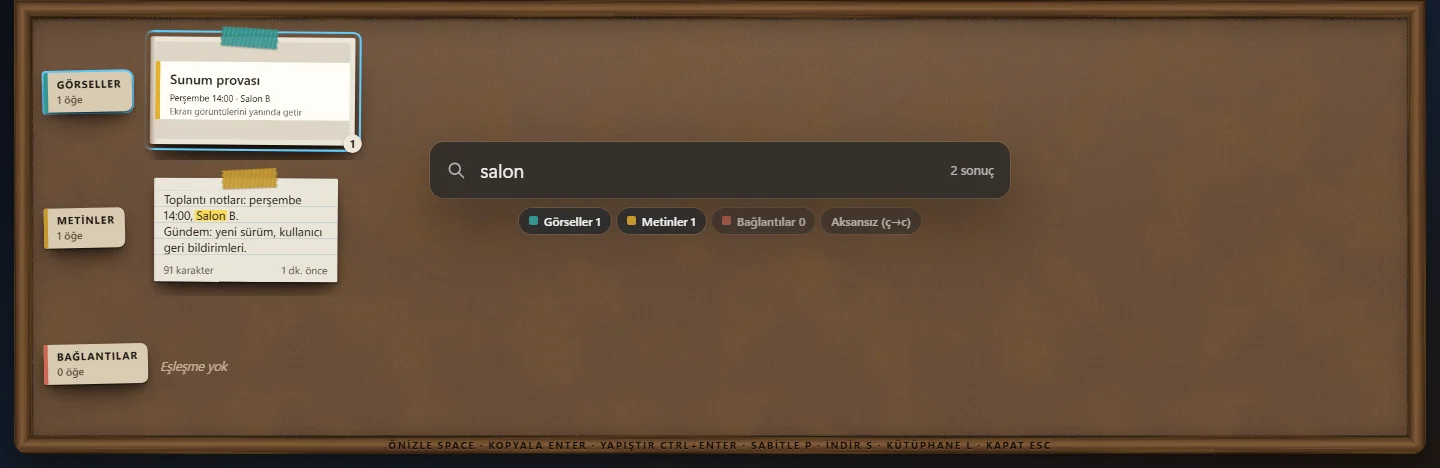
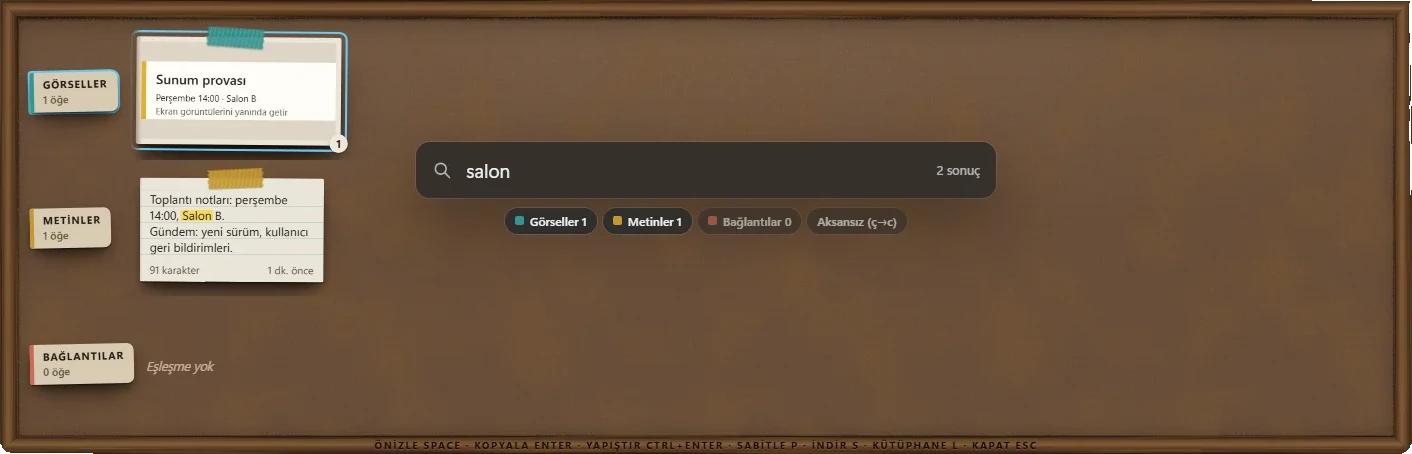
docs: crop the shelf pictures and use Turkish Windows' SmartScreen words
The four shelf pictures now end at the board's frame on every side,
with clear corners, so they suit any page. Turkish texts name the
SmartScreen dialog as Turkish Windows does: "Windows kişisel
bilgisayarınızı korudu", then "Ek bilgi" and "Yine de çalıştır".

Changed region(s): [[0.0, 0.0, 1.0, 1.0], [0.2805, 0.2775, 0.7167, 0.5242]]

diff --git a/site/index.html b/site/index.html
@@ -97,7 +97,7 @@
             <span data-l="en">All releases</span><span data-l="tr">Tüm sürümler</span></a>
           ·
           <a href="#smartscreen">
-            <span data-l="en">"Windows protected your PC"?</span><span data-l="tr">"Windows bilgisayarınızı korudu" mu?</span></a>
+            <span data-l="en">"Windows protected your PC"?</span><span data-l="tr">"Windows kişisel bilgisayarınızı korudu" mu?</span></a>
         </p>
       </div>
 
@@ -190,12 +190,12 @@
       <h2><span data-l="en">Questions</span><span data-l="tr">Sık sorulanlar</span></h2>
       <details id="smartscreen">
         <summary><span data-l="en">Windows says “Windows protected your PC”. Is that a problem?</span>
-                 <span data-l="tr">Windows “Windows bilgisayarınızı korudu” diyor. Sorun mu var?</span></summary>
+                 <span data-l="tr">Windows “Windows kişisel bilgisayarınızı korudu” diyor. Sorun mu var?</span></summary>
         <p><span data-l="en">Panopin is not code-signed yet, because certificates cost money. SmartScreen warns about new files without a
            reputation. Choose <b>More info → Run anyway</b>. Every release lists the SHA-256 of its files in <code>SHA256SUMS.txt</code>,
            and the source code is on GitHub.</span>
            <span data-l="tr">Panopin henüz kod imzalı değil, çünkü sertifikalar ücretli. SmartScreen itibarı olmayan yeni dosyalar için
-           uyarır. <b>Daha fazla bilgi → Yine de çalıştır</b>'ı seç. Her sürüm dosyalarının SHA-256 değerlerini
+           uyarır. <b>Ek bilgi → Yine de çalıştır</b>'ı seç. Her sürüm dosyalarının SHA-256 değerlerini
            <code>SHA256SUMS.txt</code> içinde listeler; kaynak kodu da GitHub'da.</span></p>
       </details>
       <details>

diff --git a/site/embed/download-section.html b/site/embed/download-section.html
@@ -67,7 +67,7 @@
       </div>
       <p class="pe-fine">
         <span data-l="en">Windows 10 22H2 and 11 (x64) · MIT licence. Not code-signed yet: if SmartScreen warns, choose “More info → Run anyway”.</span>
-        <span data-l="tr">Windows 10 22H2 ve 11 (x64) · MIT lisansı. Henüz kod imzalı değil: SmartScreen uyarırsa “Daha fazla bilgi → Yine de çalıştır”ı seç.</span>
+        <span data-l="tr">Windows 10 22H2 ve 11 (x64) · MIT lisansı. Henüz kod imzalı değil: SmartScreen uyarırsa “Ek bilgi → Yine de çalıştır”ı seç.</span>
       </p>
     </div>
   </div>

diff --git a/README.tr.md b/README.tr.md
@@ -56,7 +56,7 @@ gider. Hepsi klasörler, etiketler, notlar ve aramayla birlikte Kütüphane penc
    **Panopin-Setup-x64.exe** dosyasını indirip aç. Panopin hemen, yalnızca senin kullanıcın için
    kurulur; yönetici izni istemez, tıklanacak sayfa yoktur ve bitince açılır.
 2. Panopin henüz kod imzalı değil (sertifikalar ücretli; bkz. [docs/SIGNING.md](docs/SIGNING.md)).
-   Bu yüzden Windows SmartScreen "Windows bilgisayarınızı korudu" diyebilir: **Daha fazla bilgi →
+   Bu yüzden Windows SmartScreen "Windows kişisel bilgisayarınızı korudu" diyebilir: **Ek bilgi →
    Yine de çalıştır**'ı seç. İndirdiğin dosyayı kontrol etmek istersen her sürüm, dosyalarının
    SHA-256 değerlerini `SHA256SUMS.txt` içinde listeler.
 3. Gereksinimler: Windows 10 22H2 ya da Windows 11, x64 ve Microsoft Edge WebView2. Windows 11'de
